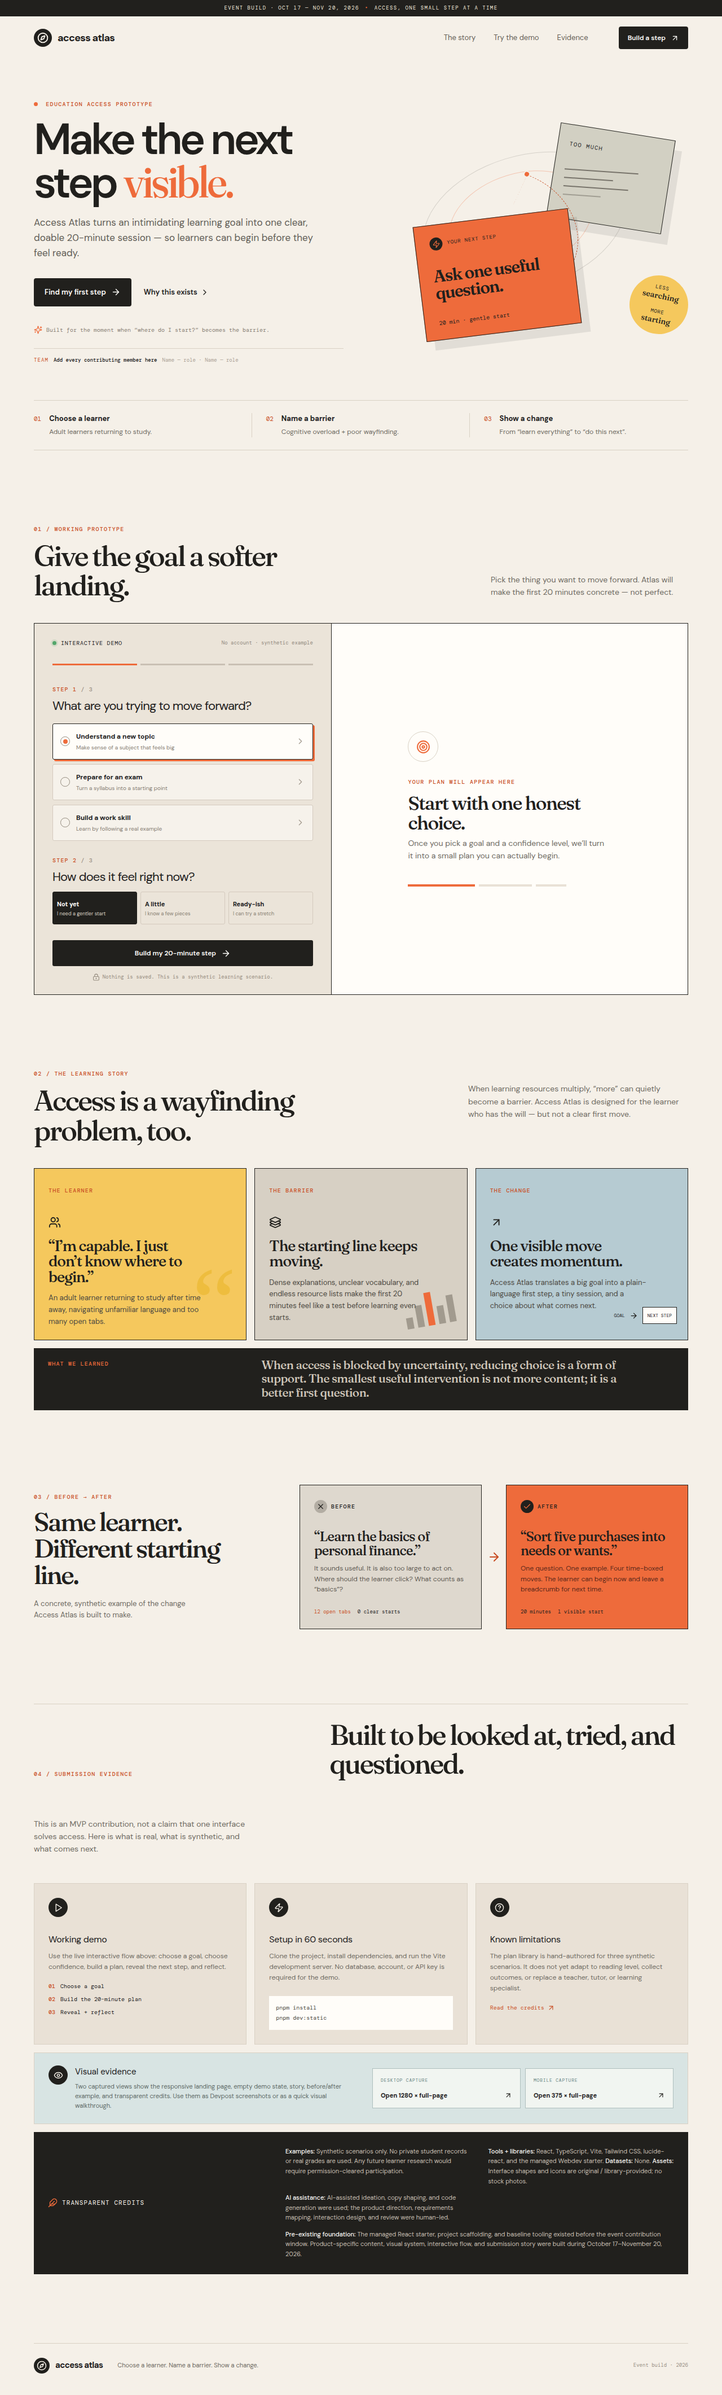
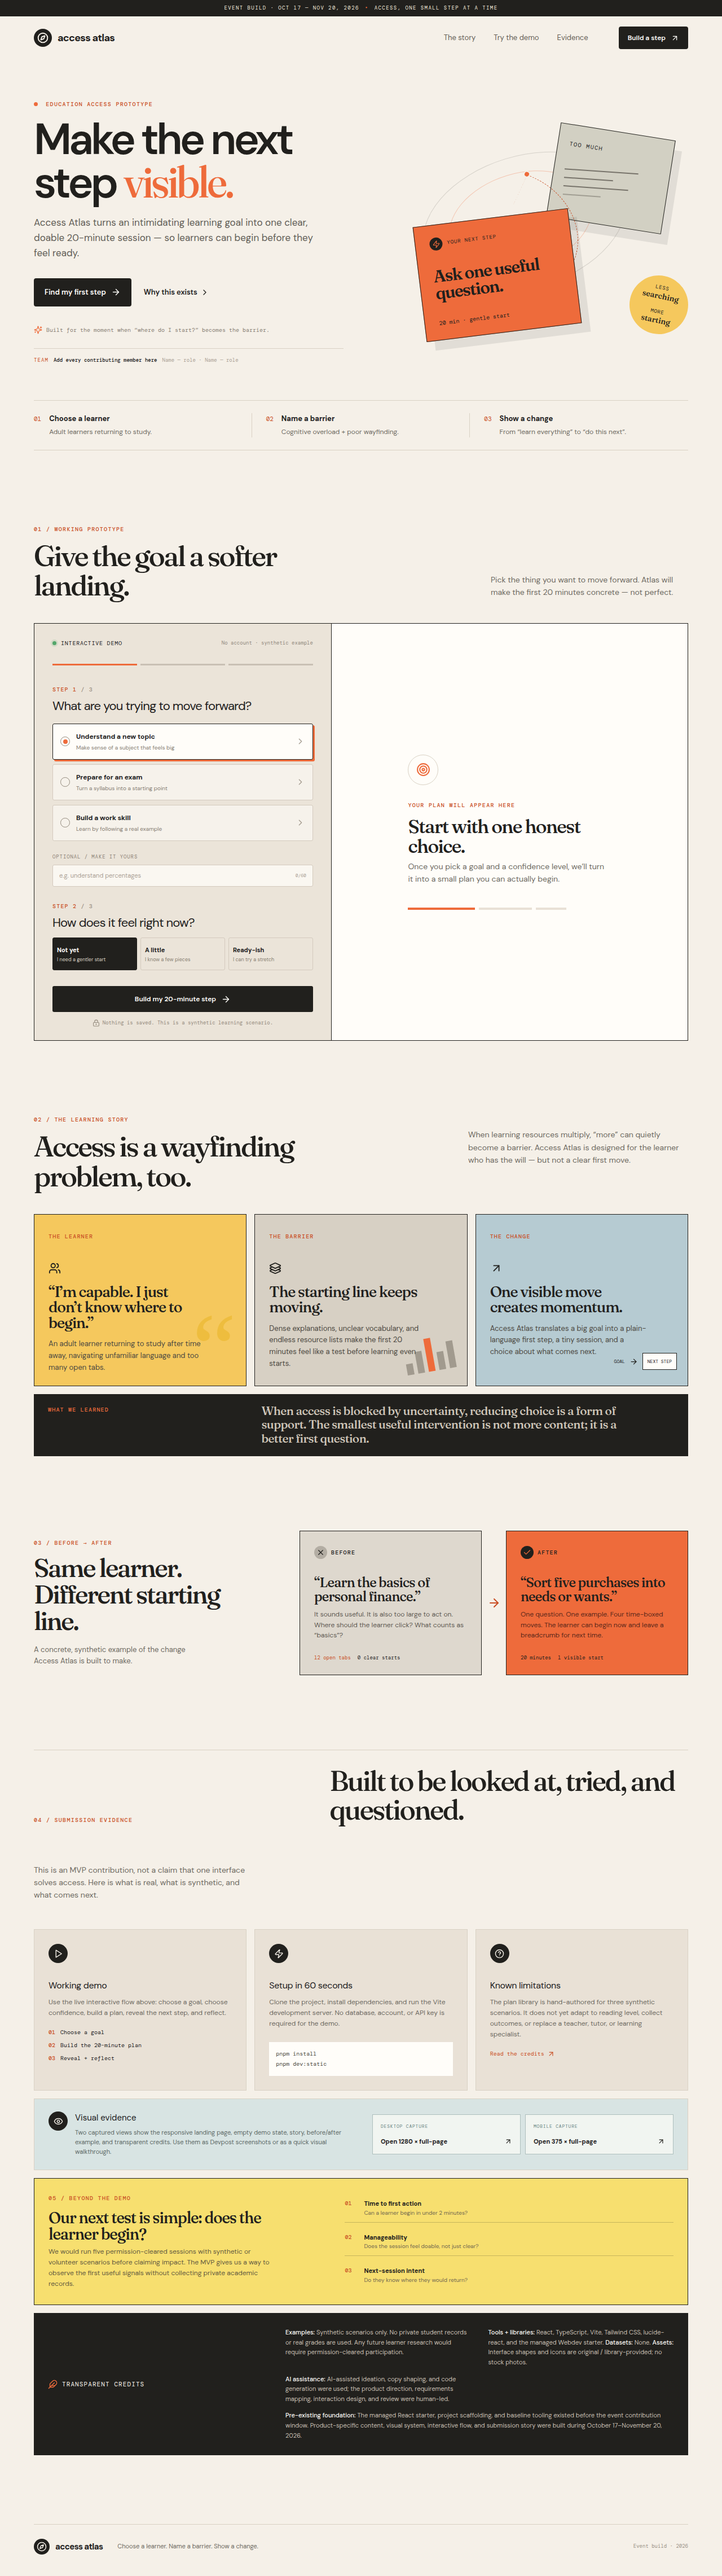
Add hackathon-ready learning access features

diff --git a/client/src/pages/Home.tsx b/client/src/pages/Home.tsx
@@ -91,19 +91,36 @@ function scrollToId(id: string) {
 export default function Home() {
   const [topic, setTopic] = useState<TopicKey>("topic");
   const [confidence, setConfidence] = useState<ConfidenceKey>("low");
+  const [customGoal, setCustomGoal] = useState("");
   const [built, setBuilt] = useState(false);
   const [revealed, setRevealed] = useState(false);
   const [reflection, setReflection] = useState("");
+  const [copied, setCopied] = useState(false);
   const [menuOpen, setMenuOpen] = useState(false);
 
   const path = useMemo(() => learningPaths[topic], [topic]);
   const confidenceLabel = confidenceOptions.find((item) => item.id === confidence)?.label ?? "Not yet";
+  const learnerGoal = customGoal.trim() || path.shortLabel;
+  const personalizedFirstStep = customGoal.trim()
+    ? `Start with one question about “${customGoal.trim()}”: what is the first thing you need to be able to explain or do?`
+    : path.firstStep;
 
   function buildPlan() {
     setBuilt(true);
     setRevealed(false);
     setReflection("");
     window.setTimeout(() => scrollToId("plan"), 80);
+  }
+
+  async function copyPlan() {
+    const planText = `Access Atlas — ${learnerGoal}\n\nFirst step: ${personalizedFirstStep}\n\n20-minute plan:\n${path.steps.map((step) => `${step.time} — ${step.title}: ${step.detail}`).join("\n")}\n\nNext step: ${path.nextStep}`;
+    try {
+      await navigator.clipboard.writeText(planText);
+      setCopied(true);
+      window.setTimeout(() => setCopied(false), 1800);
+    } catch {
+      setCopied(false);
+    }
   }
 
   return (
@@ -203,6 +220,8 @@ export default function Home() {
                   </button>
                 ))}
               </div>
+              <label className="goal-input-label" htmlFor="learner-goal">OPTIONAL / MAKE IT YOURS</label>
+              <div className="goal-input-wrap"><input id="learner-goal" value={customGoal} onChange={(event) => { setCustomGoal(event.target.value); setBuilt(false); }} placeholder="e.g. understand percentages" /><span>{customGoal.length}/60</span></div>
               <div className="confidence-block">
                 <div className="demo-step-label">STEP 2 <span>/ 3</span></div>
                 <h3>How does it feel right now?</h3>
@@ -232,7 +251,7 @@ export default function Home() {
                   <div className="result-kicker"><span className="success-mark"><Check size={13} /></span> Your starting point <span className="result-kicker-tag">{confidenceLabel}</span></div>
                   <div className="result-heading-row"><h3>{path.shortLabel}, made smaller.</h3><span className="time-badge"><Clock3 size={14} /> 20 min</span></div>
                   <p className="result-context">{path.context}</p>
-                  <div className="first-step-box"><span className="first-step-label">FIRST STEP</span><strong>{path.firstStep}</strong></div>
+                  <div className="first-step-box"><span className="first-step-label">FIRST STEP FOR · {learnerGoal.toUpperCase()}</span><strong>{personalizedFirstStep}</strong></div>
                   <div className="micro-plan-label">YOUR MICRO-PLAN</div>
                   <div className="micro-plan">
                     {path.steps.map((step, index) => (
@@ -246,6 +265,7 @@ export default function Home() {
                   ) : (
                     <div className="next-step-box"><div className="next-step-title"><span><Sparkles size={14} /> REVEALED WHEN READY</span><Check size={16} /></div><strong>{path.nextStep}</strong><p>Keep it small. The goal is a breadcrumb, not a finish line.</p></div>
                   )}
+                  <div className="result-actions"><button onClick={copyPlan}>{copied ? <Check size={14} /> : <Feather size={14} />}{copied ? "Copied" : "Copy plan"}</button><button onClick={() => window.print()}><ArrowUpRight size={14} /> Print / save PDF</button></div>
                   <div className="reflection-block">
                     <div className="micro-plan-label">AFTER YOUR SESSION</div>
                     <p>How manageable did this feel?</p>
@@ -292,6 +312,7 @@ export default function Home() {
             <div className="evidence-block"><div className="evidence-icon"><CircleHelp size={17} /></div><h3>Known limitations</h3><p>The plan library is hand-authored for three synthetic scenarios. It does not yet adapt to reading level, collect outcomes, or replace a teacher, tutor, or learning specialist.</p><a href="#credits" className="inline-link">Read the credits <ArrowUpRight size={14} /></a></div>
           </div>
           <div className="visual-evidence"><div><div className="evidence-icon"><Eye size={17} /></div><h3>Visual evidence</h3><p>Two captured views show the responsive landing page, empty demo state, story, before/after example, and transparent credits. Use them as Devpost screenshots or as a quick visual walkthrough.</p></div><div className="visual-links"><a href="/screenshots/access-atlas-desktop.png" target="_blank" rel="noreferrer"><span>DESKTOP CAPTURE</span><strong>Open 1280 × full-page <ArrowUpRight size={14} /></strong></a><a href="/screenshots/access-atlas-mobile.png" target="_blank" rel="noreferrer"><span>MOBILE CAPTURE</span><strong>Open 375 × full-page <ArrowUpRight size={14} /></strong></a></div></div>
+          <div className="impact-plan"><div><div className="eyebrow">05 / Beyond the demo</div><h3>Our next test is simple: does the learner begin?</h3><p>We would run five permission-cleared sessions with synthetic or volunteer scenarios before claiming impact. The MVP gives us a way to observe the first useful signals without collecting private academic records.</p></div><div className="impact-metrics"><span><strong>01</strong><b>Time to first action</b><small>Can a learner begin in under 2 minutes?</small></span><span><strong>02</strong><b>Manageability</b><small>Does the session feel doable, not just clear?</small></span><span><strong>03</strong><b>Next-session intent</b><small>Do they know where they would return?</small></span></div></div>
           <div id="credits" className="credits-panel"><div className="credits-title"><Feather size={17} /> Transparent credits</div><div className="credits-copy"><p><strong>Examples:</strong> Synthetic scenarios only. No private student records or real grades are used. Any future learner research would require permission-cleared participation.</p><p><strong>Tools + libraries:</strong> React, TypeScript, Vite, Tailwind CSS, lucide-react, and the managed Webdev starter. <strong>Datasets:</strong> None. <strong>Assets:</strong> Interface shapes and icons are original / library-provided; no stock photos.</p><p><strong>AI assistance:</strong> AI-assisted ideation, copy shaping, and code generation were used; the product direction, requirements mapping, interaction design, and review were human-led.</p><p><strong>Pre-existing foundation:</strong> The managed React starter, project scaffolding, and baseline tooling existed before the event contribution window. Product-specific content, visual system, interactive flow, and submission story were built during October 17–November 20, 2026.</p></div></div>
         </section>
       </main>

diff --git a/client/src/index.css b/client/src/index.css
@@ -143,3 +143,22 @@ p { line-height: 1.58; }
   .learning-note p { margin: 0; font-size: 19px; }
   .visual-links { grid-template-columns: 1fr; }
 }
+
+/* Hackathon differentiator layer */
+.goal-input-label { display: block; margin: 22px 0 7px; color: #8d8377; font-family: var(--mono); font-size: 9px; letter-spacing: .1em; }
+.goal-input-wrap { display: flex; align-items: center; gap: 8px; padding: 10px 11px; background: rgba(255,253,249,.72); border: 1px solid #d4cabe; border-radius: 3px; }
+.goal-input-wrap:focus-within { border-color: var(--orange); box-shadow: 2px 2px 0 rgba(238,107,59,.25); }
+.goal-input-wrap input { min-width: 0; flex: 1; border: 0; outline: 0; color: var(--ink); background: transparent; font-size: 11px; }
+.goal-input-wrap input::placeholder { color: #aaa095; }
+.goal-input-wrap span { color: #aaa095; font-family: var(--mono); font-size: 8px; }
+.result-actions { display: flex; gap: 7px; margin-top: 9px; }
+.result-actions button { display: inline-flex; align-items: center; gap: 5px; padding: 8px 10px; color: #746d62; background: transparent; border: 1px solid var(--line); border-radius: 3px; cursor: pointer; font-family: var(--mono); font-size: 9px; }
+.result-actions button:hover { color: var(--orange-dark); border-color: var(--orange); }
+.impact-plan { display: grid; grid-template-columns: 1fr 1.2fr; gap: 40px; align-items: center; margin-top: 14px; padding: 27px 25px; background: #f7df6f; border: 1px solid var(--ink); }
+.impact-plan h3 { max-width: 390px; margin: 13px 0 8px; font-family: var(--serif); font-size: 28px; line-height: 1.03; letter-spacing: -.04em; font-weight: 500; }
+.impact-plan p { max-width: 410px; margin: 0; color: #645a40; font-size: 12px; }
+.impact-metrics { display: grid; gap: 9px; }
+.impact-metrics span { display: grid; grid-template-columns: 25px 1fr; column-gap: 9px; padding: 9px 0; border-bottom: 1px solid rgba(33,32,29,.22); }
+.impact-metrics span:last-child { border-bottom: 0; }.impact-metrics strong { grid-row: span 2; color: var(--orange-dark); font-family: var(--mono); font-size: 10px; }.impact-metrics b { font-size: 11px; }.impact-metrics small { color: #746a4f; font-size: 10px; }
+@media (max-width: 900px) { .impact-plan { grid-template-columns: 1fr; gap: 24px; } }
+@media print { .top-strip, .site-header, .mobile-menu, .hero-actions, .demo-panel, .visual-links, .site-footer, .result-actions { display: none !important; } .page-width { width: 100%; }.demo-layout { display: block; border: 0; }.result-panel { padding: 0; }.result-empty { min-height: auto; }.evidence-section, .story-section, .before-after-section { padding-top: 35px; } }

diff --git a/TODO.md b/TODO.md
@@ -17,3 +17,8 @@
 - [x] The learning story covers the problem, intended users, solution, tools, challenges, and lessons learned.
 - [x] The page includes working demo guidance, setup instructions, limitations, screenshots guidance, and a short walkthrough outline.
 - [x] The page states that examples are synthetic or permission-cleared, no private student records or real grades are used, and credits libraries, datasets, assets, AI assistance, and pre-existing work.
+
+## Hackathon differentiators
+- [x] The learner can optionally enter their own topic or goal, and the generated first step is personalized to that input.
+- [x] The learner can copy the generated plan or use the browser print flow to save it as a practical one-page study plan.
+- [x] The project includes a transparent validation hypothesis with three concrete future signals: time to first action, perceived manageability, and next-session intent.
